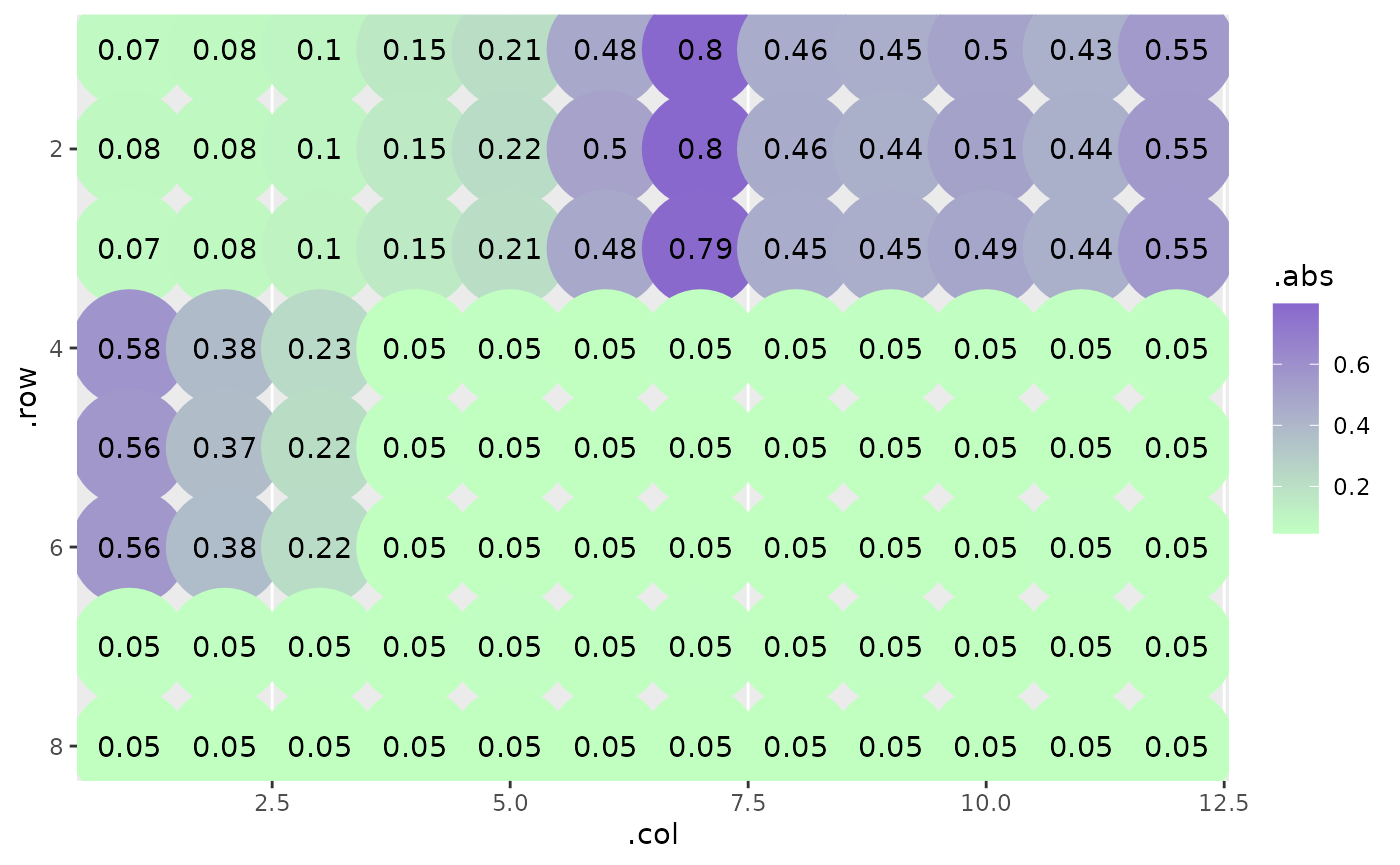
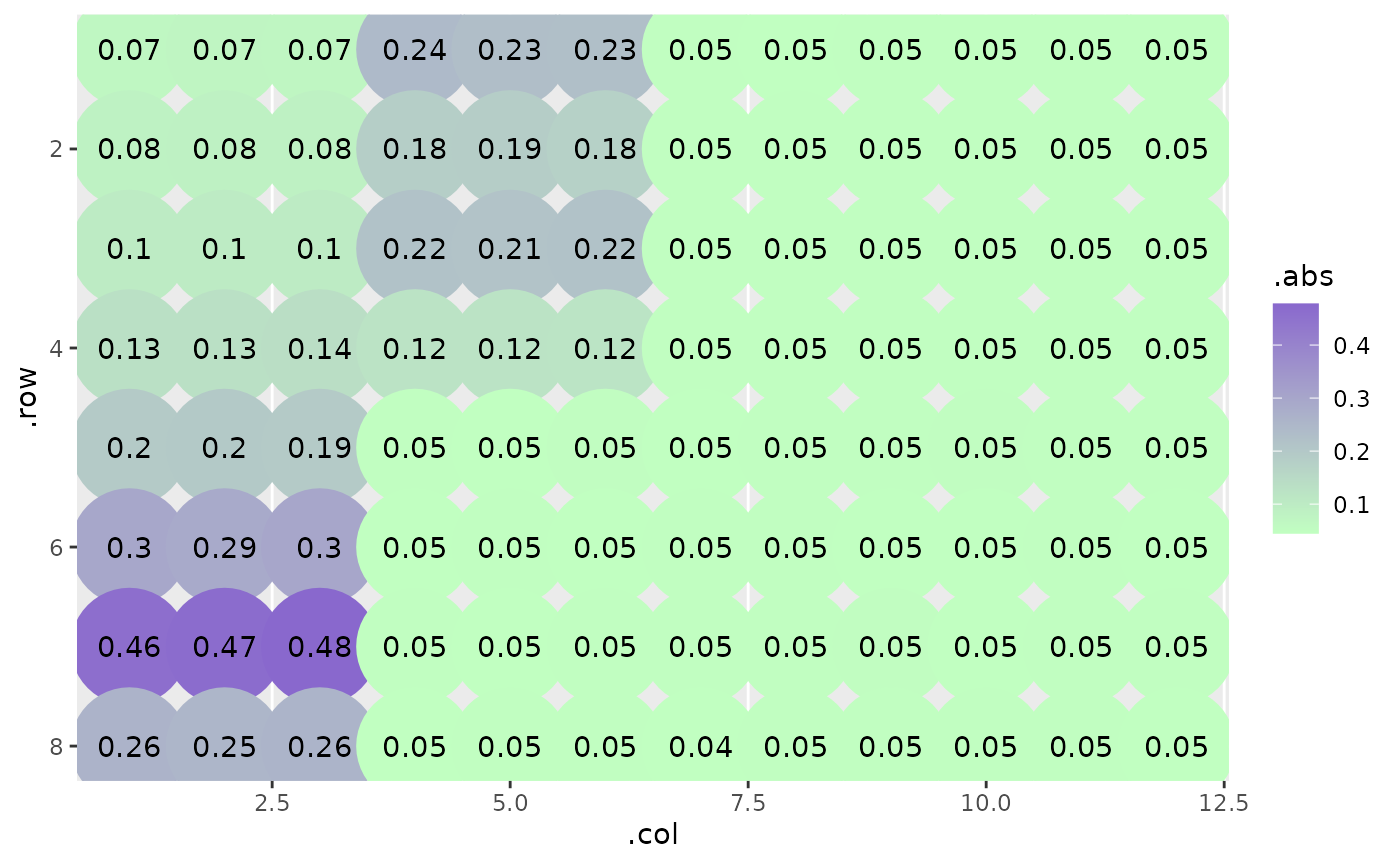
Deploying to gh-pages from @ KaiAragaki/qp@f1191b1f3772c0283274cf1655d9cfee2529c179 🚀

diff --git a/articles/quantifying-protein-with-qp.html b/articles/quantifying-protein-with-qp.html
@@ -99,16 +99,14 @@ analyzing protein quantification data using <code>qp</code>.</p>
 <p>The standard <code>qp</code> workflow is based off <a href="https://kai.quarto.pub/bok/western-blot.html#protein-quantification" class="external-link">this</a>
 protocol. Provided the protocol is followed, relatively few parameters
 need to be changed from their default.</p>
-<div class="section level3">
-<h3 id="ingesting-data">Ingesting data<a class="anchor" aria-label="anchor" href="#ingesting-data"></a>
-</h3>
 <p>The easiest - and most common - way to read in your data is by
 providing a path to your SPECTRAmax file output. These <code>.txt</code>
 files are some of the most…creatively…formatted files I’ve come
 across.</p>
 <div class="sourceCode" id="cb2"><pre class="downlit sourceCode r">
-<code class="sourceCode R"><span><span class="fu"><a href="https://rdrr.io/r/base/system.file.html" class="external-link">system.file</a></span><span class="op">(</span><span class="st">"extdata"</span>, <span class="st">"absorbances.txt"</span>, package <span class="op">=</span> <span class="st">"qp"</span><span class="op">)</span> <span class="op">|&gt;</span></span>
-<span>  <span class="fu"><a href="https://rdrr.io/r/base/readLines.html" class="external-link">readLines</a></span><span class="op">(</span><span class="op">)</span></span>
+<code class="sourceCode R"><span><span class="va">f</span> <span class="op">&lt;-</span> <span class="fu"><a href="https://rdrr.io/r/base/system.file.html" class="external-link">system.file</a></span><span class="op">(</span><span class="st">"extdata"</span>, <span class="st">"absorbances.txt"</span>, package <span class="op">=</span> <span class="st">"qp"</span><span class="op">)</span></span>
+<span></span>
+<span><span class="fu"><a href="https://rdrr.io/r/base/readLines.html" class="external-link">readLines</a></span><span class="op">(</span><span class="va">f</span><span class="op">)</span></span>
 <span><span class="co">#&gt;  [1] "##BLOCKS= 2          "                                                                                            </span></span>
 <span><span class="co">#&gt;  [2] "Plate:\tPlate#1\t1.3\tPlateFormat\tEndpoint\tAbsorbance\tRaw\tFALSE\t1\t\t\t\t\t\t1\t562\t1\t12\t96\t1\t8\tNone\t"</span></span>
 <span><span class="co">#&gt;  [3] "\tTemperature(\xa1C)\t1\t2\t3\t4\t5\t6\t7\t8\t9\t10\t11\t12\t\t"                                                  </span></span>
@@ -127,21 +125,31 @@ across.</p>
 <p>Fortunately, I’ve developed a little package <code>mop</code> that
 reads in lab data like these. This is used in the <code>qp</code>
 function when you provide it a character string.</p>
+<p>Typically when you perform these experiments, <em>you</em> will know
+how it was laid out. In these data I’m providing, though, I’ll need to
+show you how it’s laid out so that you can follow along why I set some
+parameters the way I do.</p>
+<p>This is how the plate looks:</p>
+<pre><code><span><span class="co">#&gt; Please wait. This will take ~10 seconds.</span></span></code></pre>
 <p><img src="quantifying-protein-with-qp_files/figure-html/unnamed-chunk-3-1.png" width="700"></p>
-<p><code>qp</code> comes with a data set from one of these
-experiments:</p>
-<div class="sourceCode" id="cb3"><pre class="downlit sourceCode r">
-<code class="sourceCode R"><span><span class="fu"><a href="https://rdrr.io/r/utils/head.html" class="external-link">head</a></span><span class="op">(</span><span class="va">absorbances</span><span class="op">)</span></span>
-<span><span class="co">#&gt; <span style="color: #949494;"># A tibble: 6 × 5</span></span></span>
-<span><span class="co">#&gt;    .row  .col   .abs sample_type index</span></span>
-<span><span class="co">#&gt;   <span style="color: #949494; font-style: italic;">&lt;int&gt;</span> <span style="color: #949494; font-style: italic;">&lt;dbl&gt;</span>  <span style="color: #949494; font-style: italic;">&lt;dbl&gt;</span> <span style="color: #949494; font-style: italic;">&lt;fct&gt;</span>       <span style="color: #949494; font-style: italic;">&lt;dbl&gt;</span></span></span>
-<span><span class="co">#&gt; <span style="color: #BCBCBC;">1</span>     1     1 0.070<span style="text-decoration: underline;">7</span> standard        1</span></span>
-<span><span class="co">#&gt; <span style="color: #BCBCBC;">2</span>     2     1 0.078<span style="text-decoration: underline;">6</span> standard        1</span></span>
-<span><span class="co">#&gt; <span style="color: #BCBCBC;">3</span>     3     1 0.071<span style="text-decoration: underline;">4</span> standard        1</span></span>
-<span><span class="co">#&gt; <span style="color: #BCBCBC;">4</span>     1     2 0.079<span style="text-decoration: underline;">5</span> standard        2</span></span>
-<span><span class="co">#&gt; <span style="color: #BCBCBC;">5</span>     2     2 0.079<span style="text-decoration: underline;">9</span> standard        2</span></span>
-<span><span class="co">#&gt; <span style="color: #BCBCBC;">6</span>     3     2 0.080<span style="text-decoration: underline;">5</span> standard        2</span></span></code></pre></div>
-</div>
+<p>The samples are laid out in triplicate, horizontally arranged
+replicates in vertical bands that wrap to the next three columns once it
+hits the edge of the plate.</p>
+<p><img src="quantifying-protein-with-qp_files/figure-html/unnamed-chunk-4-1.png" width="700"></p>
+<p>Furthermore, I have my seven standards in the top left corner of the
+plate, in ascending concentrations as they flow down the first column.
+The samples follow. The rest of the wells are empty:</p>
+<p><img src="quantifying-protein-with-qp_files/figure-html/unnamed-chunk-5-1.png" width="700"></p>
+<p>Since we followed the standard protocol, and since I told you
+replicates were arranged horizontally, analysis is a breeze:</p>
+<div class="sourceCode" id="cb4"><pre class="downlit sourceCode r">
+<code class="sourceCode R"><span><span class="va">out</span> <span class="op">&lt;-</span> <span class="fu"><a href="../reference/qp.html">qp</a></span><span class="op">(</span><span class="va">f</span>, replicate_orientation <span class="op">=</span> <span class="st">"h"</span><span class="op">)</span></span>
+<span><span class="co">#&gt; Please wait. This will take ~10 seconds.</span></span></code></pre></div>
+<p>We can plot our standards and samples simply, using
+<code>qp_plot_standards</code></p>
+<div class="sourceCode" id="cb5"><pre class="downlit sourceCode r">
+<code class="sourceCode R"><span><span class="fu"><a href="../reference/qp_plot_standards.html">qp_plot_standards</a></span><span class="op">(</span><span class="va">out</span><span class="op">)</span></span></code></pre></div>
+<p><img src="quantifying-protein-with-qp_files/figure-html/unnamed-chunk-7-1.png" width="700"></p>
 </div>
   </main><aside class="col-md-3"><nav id="toc"><h2>On this page</h2>
     </nav></aside>
